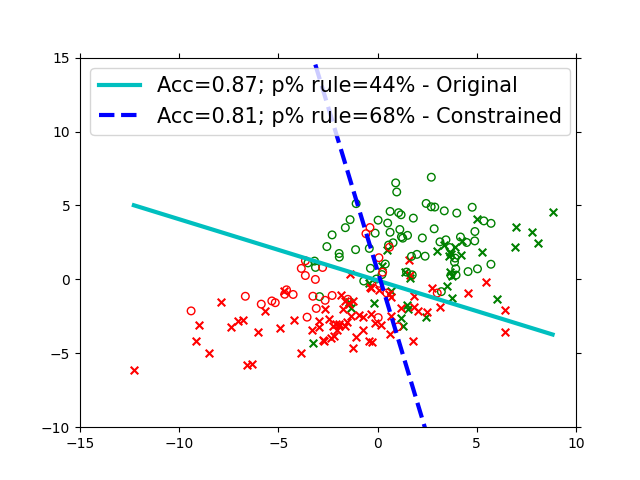
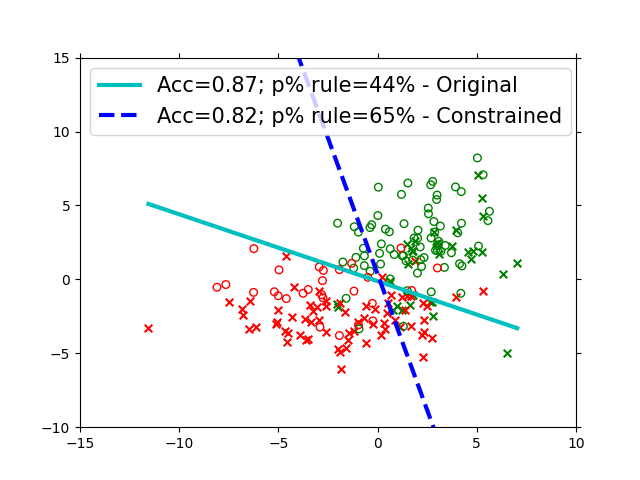
all done

diff --git a/disparate_impact/adult_data_demo/twmp.py b/disparate_impact/adult_data_demo/twmp.py
@@ -1,76 +1,42 @@
+import os,sys
 import numpy as np
-import pandas as pd
 from prepare_adult_data import *
 sys.path.insert(0, '../../fair_classification/') # the code for fair classification is in this directory
 import utils as ut
-import loss_funcs as lf
-import Uniform_sampling as us
+import loss_funcs as lf # loss funcs that can be optimized subject to various constraints
+
 NUM_FOLDS = 10 # we will show 10-fold cross validation accuracy as a performance measure
 
 def test_synthetic_data():
 	
-	# Load the adult data
-    X, y, x_control = load_adult_data() 
-    ut.compute_p_rule(x_control["sex"], y) 
-
-    # Split the data into train and test
-    X = ut.add_intercept(X) 
-    train_fold_size = 0.9
-    x_train, y_train, x_control_train, x_test, y_test, x_control_test = ut.split_into_train_test(X, y, x_control, train_fold_size)
 	
-     # Define the list of num_points values
-    num_points_list = [300, 500, 1500, 2500, 5000]
+	X, y, x_control = load_adult_data() 
+	ut.compute_p_rule(x_control["sex"], y) # compute the p-rule in the original data
 
-    # Lists to store number of points and corresponding accuracies
-    accuracy_list = []
-    
-    accuracy_list2 = []
-    
+	""" Classify the data without any constraints """
+	apply_fairness_constraints = 0
+	apply_accuracy_constraint = 0
+	sep_constraint = 0
+	gamma=0
 
-    # Loop through each num_points value
-    for num_points in num_points_list:
-
-          # Run each configuration five times
-        random_x_train, random_y_train, random_x_control_train = us.generate_uniform_sampling(x_train, y_train, x_control_train, num_points)
-
-        ut.compute_p_rule(random_x_control_train["sex"], random_y_train)
-            
-        """ Now classify such that we achieve perfect fairness """
-        apply_fairness_constraints = 0
-        apply_accuracy_constraint = 0
-        sensitive_attrs = ["sex"]
-        sep_constraint =0
-        gamma = 0
-
-        loss_function = lf._logistic_loss
-        X = ut.add_intercept(X) 
-        test_acc_arr_f, train_acc_arr, correlation_dict_test_arr, correlation_dict_train_arr, cov_dict_test_arr, cov_dict_train_arr = ut.compute_cross_validation_error(random_x_train, random_y_train, random_x_control_train, NUM_FOLDS, loss_function, apply_fairness_constraints, apply_accuracy_constraint, sep_constraint,sensitive_attrs, [{} for i in range(0,NUM_FOLDS)],gamma)		
-        print()
-        print ("== Constrained (fair) classifier ==")
-        ut.print_classifier_fairness_stats(test_acc_arr_f, correlation_dict_test_arr, cov_dict_test_arr, "sex")
-
-            
-        """ Classify such that we optimize for fairness subject to a certain loss in accuracy """ 
-        apply_accuracy_constraint = 1 
-        cov_factor = 0
-        test_acc_arr_a, train_acc_arr, correlation_dict_test_arr, correlation_dict_train_arr, cov_dict_test_arr, cov_dict_train_arr = ut.compute_cross_validation_error(random_x_train, random_y_train, random_x_control_train, NUM_FOLDS, loss_function, apply_fairness_constraints, apply_accuracy_constraint, sep_constraint, sensitive_attrs, [{'sex':cov_factor} for i in range(0,NUM_FOLDS)],gamma)		
-        print()
-        print ("== Constrained (accuracy) classifier ==")
-        ut.print_classifier_fairness_stats(test_acc_arr_a, correlation_dict_test_arr, cov_dict_test_arr, "sex")
-
-        # Append average accuracy to the lists
-        accuracy_list.append(test_acc_arr_f)
-        #p_rule_list.append(prule_f)
-        
-        accuracy_list2.append(test_acc_arr_a)
-        #p_rule_list2.append(prule_a)
-
-        print(f"Average Accuracy (Fairness Constraint): {test_acc_arr_f}")
-        print(f"Average Accuracy (Accuracy Constraint): {test_acc_arr_a}")
+	loss_function = lf._logistic_loss
+	X = ut.add_intercept(X) # add intercept to X before applying the linear classifier
+	test_acc_arr, train_acc_arr, correlation_dict_test_arr, correlation_dict_train_arr, cov_dict_test_arr, cov_dict_train_arr = ut.compute_cross_validation_error(X, y, x_control, NUM_FOLDS, loss_function, apply_fairness_constraints, apply_accuracy_constraint, sep_constraint, ['sex'], [{} for i in range(0,NUM_FOLDS)],gamma)
+	print()
+	print ("== Unconstrained (original) classifier ==")
+	ut.print_classifier_fairness_stats(test_acc_arr, correlation_dict_test_arr, cov_dict_test_arr, "sex")
 
 
-        """ Now plot a tradeoff between the fairness and accuracy """
-        ut.plot_cov_thresh_vs_acc_pos_ratio(random_x_train, random_y_train, random_x_control_train, NUM_FOLDS, loss_function, apply_fairness_constraints, apply_accuracy_constraint, sep_constraint, ['sex'])
+	""" Now classify such that we achieve perfect fairness """
+	apply_fairness_constraints = 1
+	cov_factor = 0
+	test_acc_arr, train_acc_arr, correlation_dict_test_arr, correlation_dict_train_arr, cov_dict_test_arr, cov_dict_train_arr = ut.compute_cross_validation_error(X, y, x_control, NUM_FOLDS, loss_function, apply_fairness_constraints, apply_accuracy_constraint, sep_constraint, ['sex'], [{'sex':cov_factor} for i in range(0,NUM_FOLDS)],gamma)		
+	print()
+	print ("== Constrained (fair) classifier ==")
+	ut.print_classifier_fairness_stats(test_acc_arr, correlation_dict_test_arr, cov_dict_test_arr, "sex")
+
+	""" Now plot a tradeoff between the fairness and accuracy """
+	ut.plot_cov_thresh_vs_acc_pos_ratio(X, y, x_control, NUM_FOLDS, loss_function, apply_fairness_constraints, apply_accuracy_constraint, sep_constraint, ['sex'])
 
 	
 

diff --git a/disparate_impact/synthetic_data_demo/uniformsampling_synthetic.py b/disparate_impact/synthetic_data_demo/uniformsampling_synthetic.py
@@ -1,4 +1,4 @@
-from prepare_adult_data import *
+from generate_synthetic_data import *
 import numpy as np
 import pandas as pd
 import matplotlib.pyplot as plt
@@ -12,7 +12,6 @@ import loss_funcs as lf
 NUM_FOLDS=10
 
 def print_classifier_fairness_stats(acc_arr, correlation_dict_arr, cov_dict_arr, s_attr_name):
-    
     correlation_dict = ut.get_avg_correlation_dict(correlation_dict_arr)
     non_prot_pos = correlation_dict[s_attr_name][1][1]
     prot_pos = correlation_dict[s_attr_name][0][1]
@@ -24,7 +23,7 @@ def print_classifier_fairness_stats(acc_arr, correlation_dict_arr, cov_dict_arr,
     print()
     return p_rule
 
-def Train_test_classifier(random_x_train, random_y_train, random_x_control_train,apply_fairness_constraints, apply_accuracy_constraint):
+def Train_test_classifier(random_x_train, random_y_train, random_x_control_train, x_test, y_test, apply_fairness_constraints, apply_accuracy_constraint):
     w1 = ut.train_model(random_x_train, random_y_train, random_x_control_train, loss_function, apply_fairness_constraints, apply_accuracy_constraint, sep_constraint, sensitive_attrs, sensitive_attrs_to_cov_thresh, gamma)
     train_score, test_score, correct_answers_train, correct_answers_test = ut.check_accuracy(w1, random_x_train,random_y_train, x_test, y_test, None, None)
     distances_boundary_test = (np.dot(x_test, w1)).tolist()
@@ -34,6 +33,7 @@ def Train_test_classifier(random_x_train, random_y_train, random_x_control_train
     p_rule = print_classifier_fairness_stats([test_score], [correlation_dict_test], [cov_dict_test], sensitive_attrs[0])   
     return w1, p_rule, test_score
 
+
 def generate_uniform_sampling(x_train, y_train, x_control_train, num_points):
     num_rows = len(x_train)
     random_indices = np.random.choice(num_rows, num_points, replace=False)
@@ -42,6 +42,7 @@ def generate_uniform_sampling(x_train, y_train, x_control_train, num_points):
     random_x_control_train = {attr: x_control_train[attr][random_indices] for attr in x_control_train}
 
     return random_x_train, random_y_train, random_x_control_train
+
 
 def plot_num_points_vs_accuracy_and_P_rule(num_points_list, accuracy_list, p_rule_list, constraint_type):
     fig, ax1 = plt.subplots()
@@ -65,9 +66,9 @@ def plot_num_points_vs_accuracy_and_P_rule(num_points_list, accuracy_list, p_rul
     plt.show()
 
 if __name__ == '__main__':
-    # Load the adult data
-    X, y, x_control = load_adult_data() 
-    ut.compute_p_rule(x_control["sex"], y) 
+    # Load the synthetic data
+    X, y, x_control = generate_synthetic_data(plot_data=False) 
+    ut.compute_p_rule(x_control["s1"], y) 
 
     # Split the data into train and test
     X = ut.add_intercept(X) 
@@ -75,12 +76,12 @@ if __name__ == '__main__':
     x_train, y_train, x_control_train, x_test, y_test, x_control_test = ut.split_into_train_test(X, y, x_control, train_fold_size)
 
     loss_function = lf._logistic_loss
-    sensitive_attrs = ["sex"]
+    sensitive_attrs = ["s1"]
     sensitive_attrs_to_cov_thresh = {}
     gamma = None
 
     # Define the list of num_points values
-    num_points_list = [300, 500, 1500, 2500, 5000]
+    num_points_list = [300, 500, 1000, 1500, 2500]
 
     # Lists to store number of points and corresponding accuracies and p-rules
     accuracy_list_f = []
@@ -103,8 +104,8 @@ if __name__ == '__main__':
             apply_accuracy_constraint = 0
             sep_constraint = 0
             
-            sensitive_attrs_to_cov_thresh = {"sex": 0}
-            w_f, prule_f, acc_f = Train_test_classifier(random_x_train, random_y_train, random_x_control_train, apply_fairness_constraints, apply_accuracy_constraint)
+            sensitive_attrs_to_cov_thresh = {"s1": 0}
+            _, prule_f, acc_f = Train_test_classifier(random_x_train, random_y_train, random_x_control_train, x_test, y_test, apply_fairness_constraints, apply_accuracy_constraint)
             
             total_acc_f += acc_f
             total_prule_f += prule_f
@@ -114,7 +115,7 @@ if __name__ == '__main__':
             apply_accuracy_constraint = 1
             sep_constraint=0
             gamma = 0.5
-            w_a, prule_a, acc_a = Train_test_classifier(random_x_train, random_y_train, random_x_control_train, apply_fairness_constraints, apply_accuracy_constraint)
+            _, prule_a, acc_a = Train_test_classifier(random_x_train, random_y_train, random_x_control_train, x_test, y_test, apply_fairness_constraints, apply_accuracy_constraint)
             
             total_acc_a += acc_a
             total_prule_a += prule_a
@@ -136,7 +137,8 @@ if __name__ == '__main__':
         print(f"Average p%-rule (Fairness Constraint): {avg_prule_f}")
         print(f"Average Accuracy (Accuracy Constraint): {avg_acc_a}")
         print(f"Average p%-rule (Accuracy Constraint): {avg_prule_a}")
+        print()
 
-    # Plotting
+     # Plotting
     plot_num_points_vs_accuracy_and_P_rule(num_points_list, accuracy_list_f, p_rule_list_f, "Fairness")
     plot_num_points_vs_accuracy_and_P_rule(num_points_list, accuracy_list_a, p_rule_list_a, "Accuracy")

diff --git a/disparate_impact/adult_data_demo/sqrt_leverage-score.py b/disparate_impact/adult_data_demo/sqrt_leverage-score.py
@@ -21,11 +21,11 @@ def print_classifier_fairness_stats(acc_arr, correlation_dict_arr, cov_dict_arr,
     return p_rule
 
 
-def leverage_score_sampling_svd(x_train, y_train, x_control_train, num_points):
+def sqrt_leverage_score_sampling_svd(x_train, y_train, x_control_train, num_points):
     # Ensure y_train is a column vector
     y_train_col = y_train.reshape(-1, 1) if y_train.ndim == 1 else y_train
 
-    # Assuming x_control_train is already a DataFrame
+    # Check if x_control_train is already a DataFrame, if not convert it
     x_control_train_df = x_control_train if isinstance(x_control_train, pd.DataFrame) else pd.DataFrame(x_control_train)
 
     # Concatenate x_train, y_train_col, and x_control_train_df to form the dataset matrix
@@ -34,14 +34,17 @@ def leverage_score_sampling_svd(x_train, y_train, x_control_train, num_points):
     # Perform Singular Value Decomposition
     U, Sigma, Vt = np.linalg.svd(dataset_matrix, full_matrices=False)
 
-    # Calculate the norms (squared) of the rows of U to get leverage scores
+    # Calculate the leverage scores (squared norms of the rows of U)
     leverage_scores = np.linalg.norm(U, axis=1)**2
 
-    # Normalize leverage scores to get a probability distribution
-    leverage_scores_normalized = leverage_scores / np.sum(leverage_scores)
+    # Calculate square root of leverage scores
+    sqrt_leverage_scores = np.sqrt(leverage_scores)
 
-    # Choose num_points random indices based on the normalized leverage scores
-    random_indices = np.random.choice(len(dataset_matrix), num_points, replace=False, p=leverage_scores_normalized)
+    # Normalize the square root leverage scores to get a probability distribution
+    sqrt_leverage_scores_normalized = sqrt_leverage_scores / np.sum(sqrt_leverage_scores)
+
+    # Choose num_points random indices based on the normalized square root leverage scores
+    random_indices = np.random.choice(len(dataset_matrix), num_points, replace=False, p=sqrt_leverage_scores_normalized)
 
     # Extract the corresponding rows from the datasets
     random_x_train = x_train[random_indices]
@@ -97,7 +100,7 @@ def test_leverage_score_sampling():
         total_prule_2 = 0
         
         for _ in range(10):  # Run each configuration five times
-            random_x_train, random_y_train, random_x_control_train = leverage_score_sampling_svd(x_train, y_train, x_control_train, num_points)
+            random_x_train, random_y_train, random_x_control_train = sqrt_leverage_score_sampling_svd(x_train, y_train, x_control_train, num_points)
          
             ut.compute_p_rule(random_x_control_train["sex"], random_y_train)
 
@@ -147,6 +150,7 @@ def test_leverage_score_sampling():
     # Plotting
     us.plot_num_points_vs_accuracy_and_P_rule(num_points_list, accuracy_list, p_rule_list, "Fairness")
     us.plot_num_points_vs_accuracy_and_P_rule(num_points_list, accuracy_list2, p_rule_list2, "Accuracy")
+
 
 def main():
 	test_leverage_score_sampling()

diff --git a/disparate_impact/synthetic_data_demo/generate_synthetic_data.py b/disparate_impact/synthetic_data_demo/generate_synthetic_data.py
@@ -15,7 +15,7 @@ def generate_synthetic_data(plot_data=False):
     A sensitive feature value of 0.0 means the example is considered to be in protected group (e.g., female) and 1.0 means it's in non-protected group (e.g., male).
     """
 
-    n_samples = 1000  # generate these many data points per class
+    n_samples = 5000  # generate these many data points per class
     disc_factor = math.pi / 4.0  # this variable determines the initial discrimination in the data -- decrease it to generate more discrimination
 
     def gen_gaussian(mean_in, cov_in, class_label):
@@ -68,7 +68,7 @@ def generate_synthetic_data(plot_data=False):
 
     """ Show the data """
     if plot_data:
-        num_to_draw = 200  # we will only draw a small number of points to avoid clutter
+        num_to_draw = 1000  # we will only draw a small number of points to avoid clutter
         x_draw = X[:num_to_draw]
         y_draw = y[:num_to_draw]
         x_control_draw = x_control[:num_to_draw]
